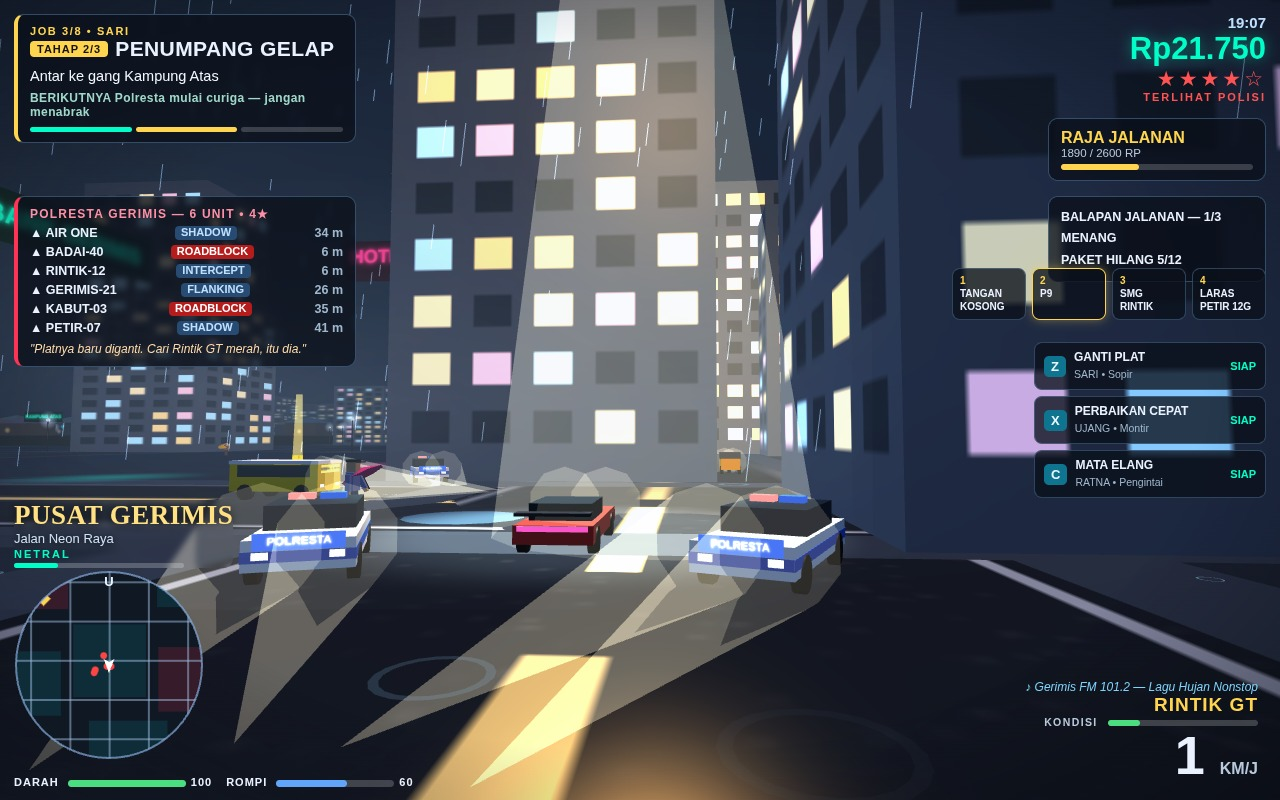
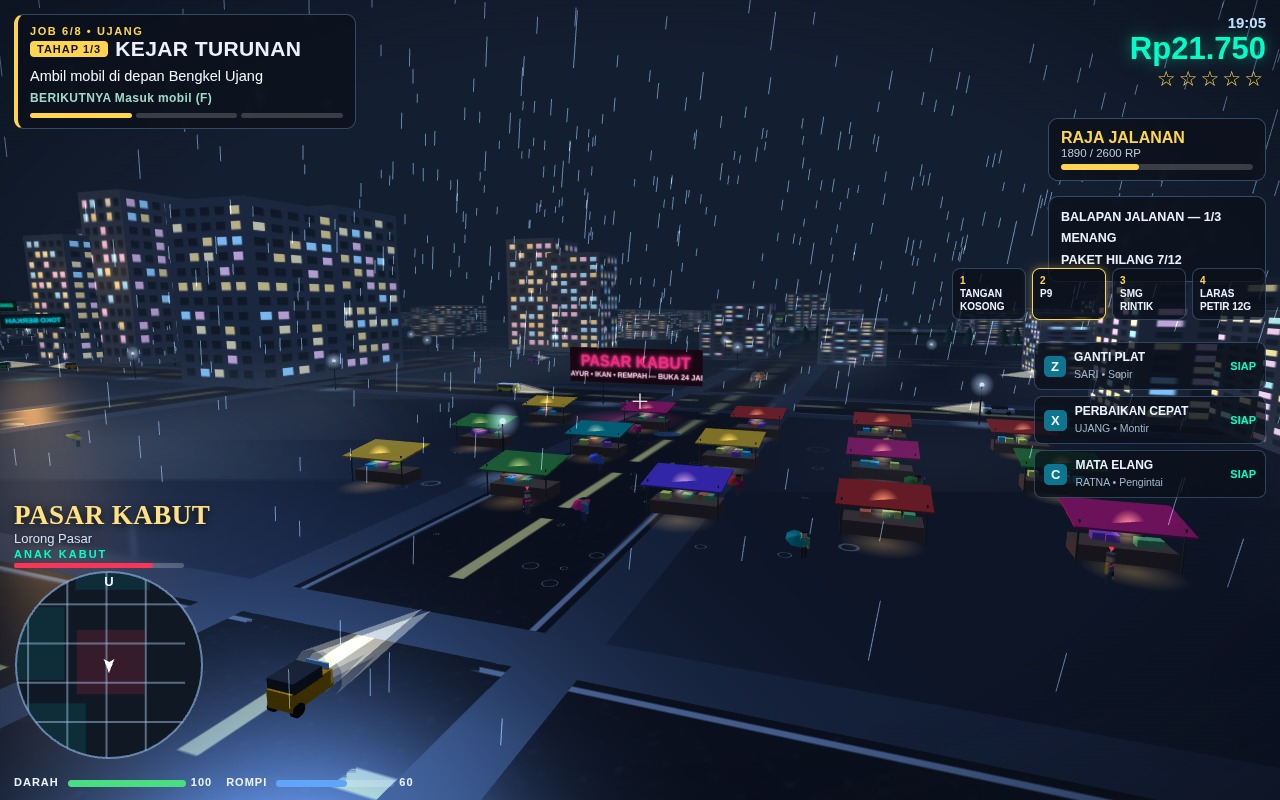
GERIMIS rev1b — cover as open-world city vista: districts, landmarks, ambient traffic, rain

diff --git a/game/src/shots.js b/game/src/shots.js
@@ -76,6 +76,42 @@ export function installStaging(api) {
       api.setCam([1.5, 2.7, 27], [-3.5, 6.5, -42]);
     },
 
+    // VISTA — rev1b cover: the city itself is the subject. The owner
+    // bounced the chase framing as clutter ("berantakan") and asked
+    // for the opposite: a calm, wide establishing frame where GERIMIS
+    // reads as a whole open world — districts, landmarks, ambient
+    // traffic, rain. No wanted, no roadblock, no cone; the GT is one
+    // life detail among many. Probe rounds over the downtown, station
+    // and jalur overlooks settled on Pasar Kabut: the legible pink
+    // sign, the awning grid, umbrella shoppers in the aisles, towers
+    // standing behind the market and the street grid running out of
+    // frame — one breath that sells the whole rain city.
+    vista() {
+      api.seedStats(SHOWCASE);
+      api.startJobAt(5); // JOB 6 sits on offer — the panel reads calm
+      S.jobState = 'offer';
+      scene.fog.density = 0.0026; // thinner than capture norm: layers must read
+      // Damar in the market aisle, umbrella shoppers threaded around.
+      player.mesh.position.set(196, 0, 52);
+      player.mesh.rotation.y = Math.PI;
+      const umbrellaPalette = [0xd81b60, 0x00897b, 0xf9a825, 0x3949ab, 0xc62828, 0x2e7d32];
+      [[186, 34], [201, 38], [216, 33], [188, 51], [203, 55], [218, 50], [193, 66], [210, 68]].forEach(([px, pz], i) => {
+        const shopper = api.pedEntity('civ', { umbrella: umbrellaPalette[i % umbrellaPalette.length] }, px, pz, Math.PI + (i % 2 ? 0.4 : -0.3));
+        shopper.mesh.userData.holdsUmbrella = true;
+      });
+      // The GT as a life detail on the market's south approach road,
+      // an angkot crossing the junction, a bajaj and a sedan on the
+      // frame streets — traffic, not a chase.
+      heroCar.mesh.position.set(189.5, 0, -38);
+      heroCar.mesh.rotation.y = 0;
+      api.carEntity('angkot', 148, 1.5, Math.PI / 2, 'traffic', 0xffc400);
+      api.carEntity('bajaj', 191.5, 92, Math.PI, 'traffic', 0xff9100);
+      api.carEntity('sedan', 232, -1.5, -Math.PI / 2, 'traffic', 0x90a4ae);
+      // Elevated south-east of the market, looking across the stalls
+      // to the sign and the towers behind it.
+      api.setCam([214, 17, 112], [182, 3, 22]);
+    },
+
     // DUEL — a Pasar Kabut aisle gunfight. Hero west aiming east, three
     // Anak Kabut down the lane with staggered first shots, so the frame
     // can hold travelling streaks in both directions at once.
